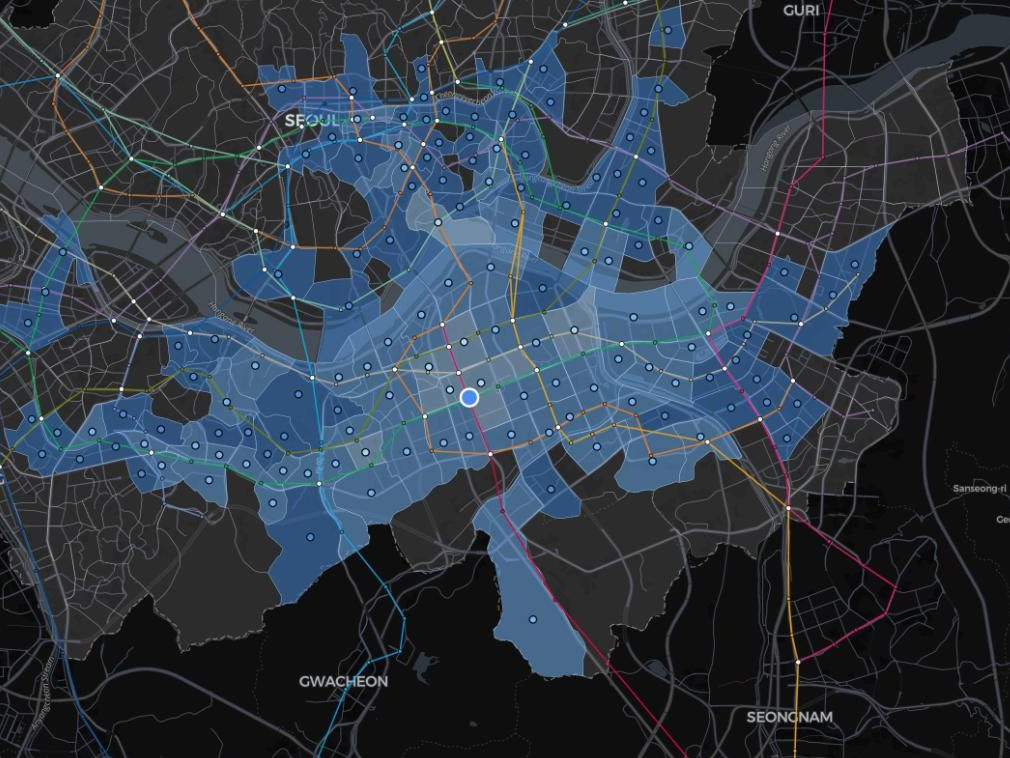
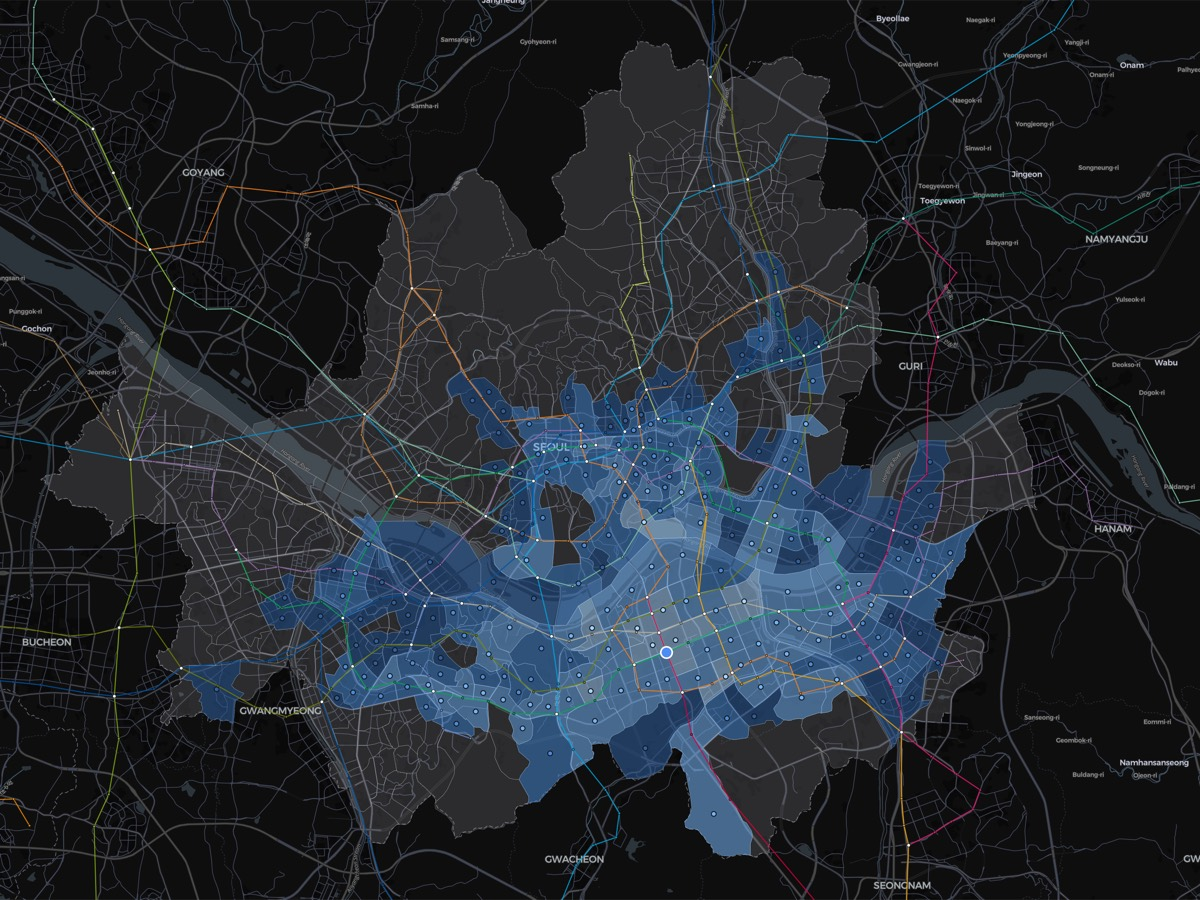
feat(landing): 지도 모드 스크린샷을 MapLibre 캔버스에서 직접 뽑아 교체한다
mode-grade/mode-commute 가 1010x758 이라 마지막 남은 저해상도 에셋이었다.
게다가 둘이 서로 다른 시점에 찍혀 프레이밍이 미묘하게 어긋나 있었고,
모드를 전환하면 색만이 아니라 지도가 같이 흔들려 보였다.

브라우저 캡처 도구는 1568px 로 다운스케일해서 저장하므로 그 길로는 QHD
조차 못 얻는다. 대신 **MapLibre 캔버스에서 직접 뽑았다.**

  - setPixelRatio(1.66) 로 캔버스를 4090x2345 까지 올리고
  - fitBounds 로 서울을 같은 화각에 넣은 뒤
  - mode 만 바꿔 두 장을 찍었다

캔버스는 preserveDrawingBuffer:false 라 toBlob 이 빈 이미지를 준다.
render 이벤트 콜백 안에서 부르면 같은 프레임이라 버퍼가 살아 있어
정상적으로 나온다(이 방법을 쓰면 앱 설정을 영구히 바꾸지 않아도 된다).
캡처용으로 MapView 에 잠깐 넣었던 코드는 전부 되돌렸다.

원본 3127x2345(4:3 크롭)에서 뽑으므로 이제 표시 폭을 600px 로 묶을
이유가 없어졌다. 본문 폭을 다 쓰도록 풀고, 그 제약을 설명하던 주석도
현재 사실로 고쳤다.

<picture> 로 감싸며 .shot-stack picture 에 display:contents 를 줬다.
두 장을 겹쳐 투명도로 교차시키는 구조라 picture 가 상자로 끼면
inset:0 이 엉뚱한 기준을 잡는다.

  mode-grade    1800px webp 232KB · 1000px 102KB · jpeg 폴백 1200px
  mode-commute  1800px webp 229KB · 1000px 100KB · jpeg 폴백 1200px

diff --git a/src/components/Landing.tsx b/src/components/Landing.tsx
@@ -202,22 +202,24 @@ export default function Landing({ onPick, onSkip, theme, onToggleTheme }: Props)
             </div>
 
             <div className="shot-stack">
-              <img
-                src="/shots/mode-grade.jpg"
-                alt="등급 모드 — 초록·노랑·빨강으로 칠해진 서울 지도"
-                data-on={mode === "grade"}
-                loading="lazy"
-                width={1010}
-                height={758}
-              />
-              <img
-                src="/shots/mode-commute.jpg"
-                alt="통근시간 모드 — 파랑 농담으로 칠해진 서울 지도"
-                data-on={mode === "commute"}
-                loading="lazy"
-                width={1010}
-                height={758}
-              />
+              {MODE_SHOTS.map((s) => (
+                <picture key={s.mode}>
+                  <source
+                    type="image/webp"
+                    srcSet={`/shots/mode-${s.mode}-sm.webp 1000w, /shots/mode-${s.mode}.webp 1800w`}
+                    sizes="(max-width: 880px) calc(100vw - 40px), 840px"
+                  />
+                  <img
+                    src={`/shots/mode-${s.mode}.jpg`}
+                    alt={s.alt}
+                    data-on={mode === s.mode}
+                    loading="lazy"
+                    decoding="async"
+                    width={1800}
+                    height={1350}
+                  />
+                </picture>
+              ))}
             </div>
 
             <div className="legend shot-legend">
@@ -664,6 +666,18 @@ const ROUTE_LEGS = [
   { kind: "transfer", min: 5, text: "신논현역 환승 · 9호선 → 신분당선" },
   { kind: "ride", min: 1, text: "신분당선 1정거장 · 신논현 → 강남" },
 ];
+
+/*
+ * 지도 색 기준 두 가지를 보여주는 스크린샷 한 쌍.
+ *
+ * **같은 화면에서 mode 만 바꿔 찍은 것**이라 프레이밍이 정확히 겹친다.
+ * 전환할 때 지도가 흔들리지 않고 색만 바뀌어야 두 모드의 차이가 보인다.
+ * (강남역 목적지 · 통근 45분 · 가중치 35/30/35 기준)
+ */
+const MODE_SHOTS = [
+  { mode: "grade", alt: "등급 모드 — 초록·노랑·빨강으로 칠해진 서울 지도" },
+  { mode: "commute", alt: "통근시간 모드 — 강남역에서 멀어질수록 옅어지는 파랑 지도" },
+] as const;
 
 /*
  * 히어로 아래 숫자 띠.

diff --git a/src/components/Landing.css b/src/components/Landing.css
@@ -26,6 +26,14 @@
 .landing {
   height: 100%;
   overflow-y: auto;
+  /*
+   * 실행 화면 섹션이 100vw 기준으로 본문 폭 밖까지 넓어진다. 그런데 100vw 는
+   * 세로 스크롤바 폭을 포함하므로, 스크롤바가 자리를 차지하는 환경(윈도우)
+   * 에서는 그만큼 넘쳐 가로 스크롤이 생긴다. clip 으로 잘라둔다 —
+   * hidden 과 달리 clip 은 이 요소를 스크롤 컨테이너로 만들지 않아
+   * overflow-y: auto 와 같이 써도 세로 스크롤이 안 망가진다.
+   */
+  overflow-x: clip;
   overscroll-behavior: contain;
   background: var(--bg);
   scroll-behavior: smooth;
@@ -705,19 +713,28 @@
 }
 
 /*
- * 원본이 1010px 캡처라 폭을 다 채우면 고해상도 화면에서 늘어나 흐려진다.
- * 표시 폭을 원본의 6할 아래로 묶어 레티나에서도 선명하게 둔다.
- * (지도는 MapLibre 가 WebGL 캔버스로 그려 SVG 로는 못 뽑는다 — 그래서
- *  글씨가 많은 패널만 실제 마크업으로 옮기고 지도는 래스터로 남겼다.)
+ * 예전에는 원본이 1010px 캡처라 표시 폭을 600px 로 묶어 두었다. 지금은
+ * MapLibre 캔버스에서 3127px 로 직접 뽑아 쓰므로 본문 폭을 다 채워도
+ * 레티나에서 선명하다.
+ * (지도는 WebGL 캔버스라 SVG 로는 못 뽑는다 — 그래서 글씨가 많은 패널만
+ *  실제 마크업으로 옮기고 지도는 래스터로 남겼다.)
  */
 .shot-stack {
   position: relative;
-  max-width: 600px;
   border-radius: var(--radius);
   overflow: hidden;
   border: 1px solid var(--border);
   box-shadow: 0 18px 48px rgba(0, 0, 0, 0.28);
   line-height: 0;
+}
+
+/*
+ * <picture> 를 레이아웃에서 지운다. 아래 규칙들이 .shot-stack 을 기준으로
+ * img 를 겹쳐 놓는데, picture 가 중간에 상자로 끼면 inset:0 이 엉뚱한
+ * 기준을 잡는다.
+ */
+.shot-stack picture {
+  display: contents;
 }
 
 .shot-stack img {
